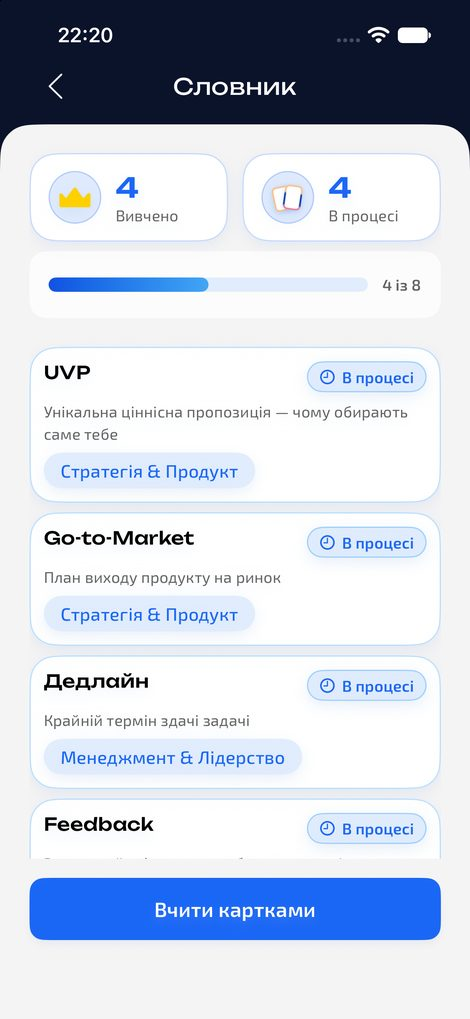
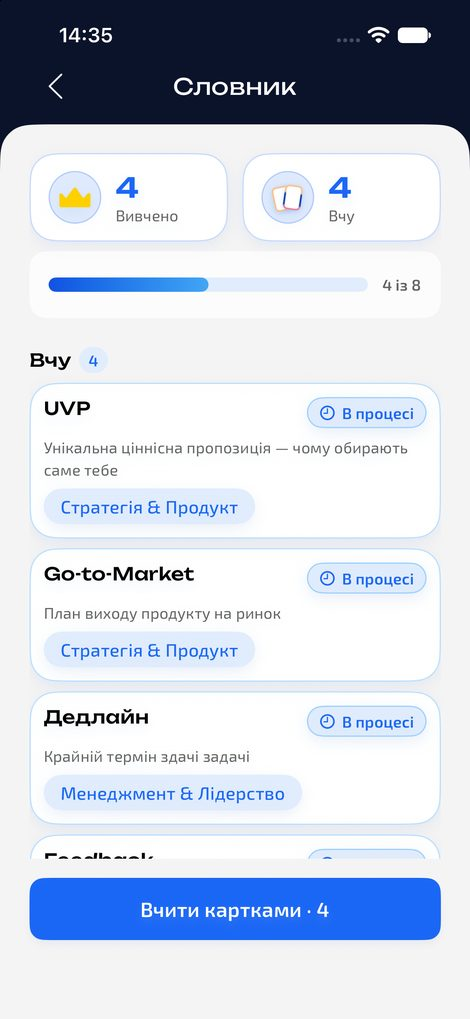
Стани словника: повторення, «на сьогодні все» — 56 екранів
Claude-Session: https://claude.ai/code/session_01CGPdZXhbxxUGrxYWeE1EMW

diff --git a/index.html b/index.html
@@ -160,10 +160,10 @@ figcaption{cursor:zoom-in}
 <div class="wrap">
 <header class="mast">
 <h1>Флоу та екрани Marketium</h1>
-<p class="lede">Повна карта застосунку: шість користувацьких шляхів і всі 53 екранів. Кожен екран — справжній роут, знятий із симулятора, а не мокап. Структура зчитана з коду: <code>Router</code>, <code>RootView</code> і всі переходи між екранами.</p>
+<p class="lede">Повна карта застосунку: шість користувацьких шляхів і всі 56 екранів. Кожен екран — справжній роут, знятий із симулятора, а не мокап. Структура зчитана з коду: <code>Router</code>, <code>RootView</code> і всі переходи між екранами.</p>
 <div class="grad"></div>
 <div class="meta">
-<span><b>53</b> екранів</span><span><b>6</b> флоу</span>
+<span><b>56</b> екранів</span><span><b>6</b> флоу</span>
 <span>iPhone 16 · 393×852</span><span>SwiftUI · iOS</span>
 </div>
 <div class="howto"><span class="ic"><svg width="22" height="22" viewBox="0 0 24 24" fill="none" aria-hidden="true"><path d="M4 5.5A2.5 2.5 0 0 1 6.5 3h11A2.5 2.5 0 0 1 20 5.5v8a2.5 2.5 0 0 1-2.5 2.5H10l-4.2 3.6c-.7.6-1.8.1-1.8-.8V5.5Z" fill="currentColor"/><path d="M12 6.5v6M9 9.5h6" stroke="#fff" stroke-width="1.8" stroke-linecap="round"/></svg></span><div><b>Щоб лишити коментар — просто клікни на екран.</b><span>У тому місці зʼявиться пін і поле для тексту. Пиши, тисни «Надіслати» — коментар одразу потрапляє в таблицю команди. Без реєстрації.</span></div></div>
@@ -301,13 +301,19 @@ figcaption{cursor:zoom-in}
 </figure></div>
 </section><section class="flow" id="fD">
 <header class="fh">
-<div class="fh-top"><span class="code">D</span><h2>Словник</h2><span class="count">4</span></div>
+<div class="fh-top"><span class="code">D</span><h2>Словник</h2><span class="count">7</span></div>
 <p class="blurb">Слова, збережені під час гри. Флешкартки збирають колоду лише з невивчених і фіксують її на вході. Якщо вивчено все — береться повний словник як режим повторення.</p>
 <p class="path">savedWords → savedWordCards</p>
 </header>
 <div class="grid-screens"><figure class="card" tabindex="0" data-route="savedWords" data-label="Словник" data-note="Список, статистика, прогрес" data-src="shots/savedWords.jpg">
 <div class="shot"><img src="shots/savedWords.jpg" alt="Словник" loading="lazy"></div>
 <figcaption><b>Словник</b><span class="note">Список, статистика, прогрес</span></figcaption>
+</figure><figure class="card" tabindex="0" data-route="savedWordsDue" data-label="Час повторити" data-note="Вивчене дозріло — чіп «Повторити»" data-src="shots/savedWordsDue.jpg">
+<div class="shot"><img src="shots/savedWordsDue.jpg" alt="Час повторити" loading="lazy"></div>
+<figcaption><b>Час повторити</b><span class="note">Вивчене дозріло — чіп «Повторити»</span></figcaption>
+</figure><figure class="card" tabindex="0" data-route="savedWordsDone" data-label="На сьогодні все" data-note="Усе вивчено, дата наступного повторення" data-src="shots/savedWordsDone.jpg">
+<div class="shot"><img src="shots/savedWordsDone.jpg" alt="На сьогодні все" loading="lazy"></div>
+<figcaption><b>На сьогодні все</b><span class="note">Усе вивчено, дата наступного повторення</span></figcaption>
 </figure><figure class="card" tabindex="0" data-route="savedWordsEmpty" data-label="Порожній словник" data-note="До першої картки" data-src="shots/savedWordsEmpty.jpg">
 <div class="shot"><img src="shots/savedWordsEmpty.jpg" alt="Порожній словник" loading="lazy"></div>
 <figcaption><b>Порожній словник</b><span class="note">До першої картки</span></figcaption>
@@ -317,6 +323,9 @@ figcaption{cursor:zoom-in}
 </figure><figure class="card" tabindex="0" data-route="savedWordCardsBack" data-label="Флешкартка — зворот" data-note="Пояснення й вердикт" data-src="shots/savedWordCardsBack.jpg">
 <div class="shot"><img src="shots/savedWordCardsBack.jpg" alt="Флешкартка — зворот" loading="lazy"></div>
 <figcaption><b>Флешкартка — зворот</b><span class="note">Пояснення й вердикт</span></figcaption>
+</figure><figure class="card" tabindex="0" data-route="savedWordCardsDone" data-label="Картки — відпочинок" data-note="Колода порожня, міст у гру" data-src="shots/savedWordCardsDone.jpg">
+<div class="shot"><img src="shots/savedWordCardsDone.jpg" alt="Картки — відпочинок" loading="lazy"></div>
+<figcaption><b>Картки — відпочинок</b><span class="note">Колода порожня, міст у гру</span></figcaption>
 </figure></div>
 </section><section class="flow" id="fE">
 <header class="fh">
